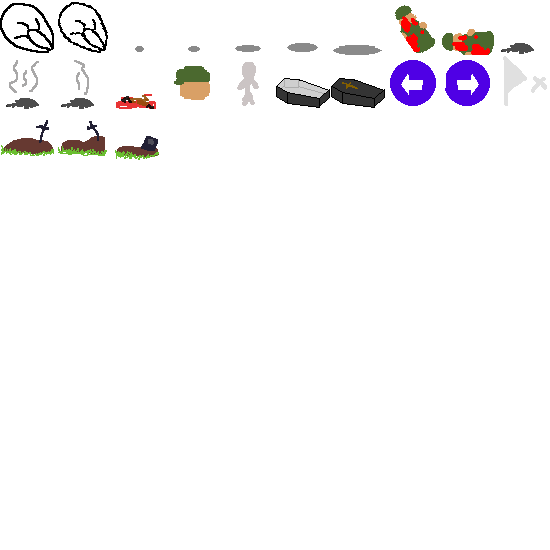
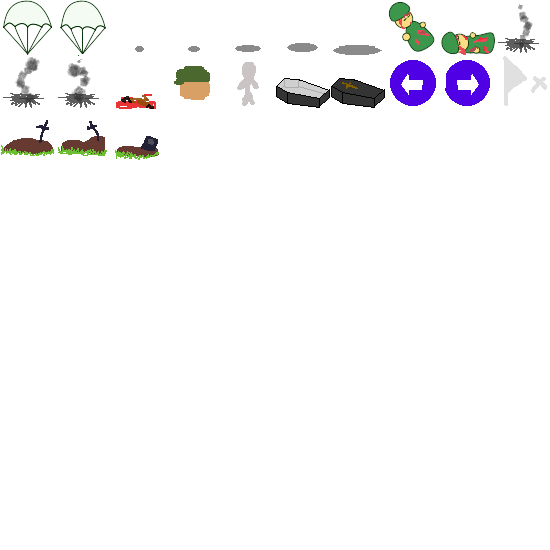
ftr(assets): add explosions

Changed region(s): [[0.0, 0.0, 0.2164, 0.2164], [0.7109, 0.0, 0.9891, 0.1236]]

diff --git a/minesweeper/src/game/minesweeper/Minesweeper.js b/minesweeper/src/game/minesweeper/Minesweeper.js
@@ -325,15 +325,14 @@ export default class Minesweeper {
 
         const cellPosition = me._field.toPosition(cellIndex);
 
-        if (type == Enums.Death.Mine)
-            me._graphics.createSmoke(cellPosition)
-
         const position = soldier.toPoint();
         const corpse = me._corpsePool.getNext(position, Enums.Corpse.Body);
         me._corpses.push(corpse);
 
-        if (type == Enums.Death.Mine)
+        if (type == Enums.Death.Mine)  {
             me._graphics.createExplosion(cellPosition);
+            me._graphics.createSmoke(cellPosition);
+        }
 
         const upY = position.y - Consts.Explode.BodyHeight;
         const downY = position.y
@@ -351,7 +350,7 @@ export default class Minesweeper {
                     ease: 'Sine.easeIn',
                     onComplete: () => { 
                         corpse.idle();
-                        me._graphics.createBloodSpot(cellPosition, corpse.getDepth())
+                        // me._graphics.createBloodSpot(cellPosition, corpse.getDepth())
                      }
                 }
             ],

diff --git a/minesweeper/src/game/utils/Animation.js b/minesweeper/src/game/utils/Animation.js
@@ -15,21 +15,21 @@ export default class Animation {
 
         scene.anims.create({
             key: 'mine_explosion',
-            frames: Animation.getFrames(scene, 'explosions', [0, 1, 2, 3, 2, 3, 2, 3, 4, 5]),
-            frameRate: 16,
+            frames: Animation.getFrames(scene, 'explosions', [0, 1, 2, 3, 4, 5, 6, 7, 8, 9, 10, 11, 13]),
+            frameRate: 24,
         });
 
         scene.anims.create({
             key: 'mine_smoke',
-            frames: Animation.getFrames(scene, 'items', [ 10, 11 ]),
+            frames: Animation.getFrames(scene, 'items', [ 9, 10, 11 ]),
             frameRate: 1,
             repeat: -1
         });
 
         scene.anims.create({
             key: 'soldier_movement',
-            frames: Animation.getFrames(scene, 'soldiers', [ 1, 2, 3, 2 ]),
-            frameRate: 8,
+            frames: Animation.getFrames(scene, 'soldiers', [ 1, 2, 3, 4, 5, 4, 3, 2 ]),
+            frameRate: 16,
             repeat: -1
         });
 

diff --git a/minesweeper/src/game/Graphics.js b/minesweeper/src/game/Graphics.js
@@ -35,8 +35,11 @@ export default class Graphics {
         const me = this;
 
         /** @type {Phaser.GameObjects.Sprite} */
-        const smoke = me._pool.create(pos.x, pos.y, 'items');
+        const smoke = me._pool.create(pos.x, pos.y, 'items')
+            .setDepth(Consts.Depth.Ground);
         smoke.play('mine_smoke');
+
+        return smoke;
     }
 
     createBloodSpot(pos, corpseDepth) {
@@ -50,7 +53,7 @@ export default class Graphics {
     createShot(pos) {
         const me = this;
 
-        return me._pool.create(pos.x, pos.y, 'explosions', 6);
+        return me._pool.create(pos.x, pos.y, 'explosions', 12);
     }
 
     createCoffin(pos) {

diff --git a/minesweeper/src/game/minesweeper/Field.js b/minesweeper/src/game/minesweeper/Field.js
@@ -220,10 +220,11 @@ export default class Field {
         let expectedDist = matrix[start.i][start.j].dist - 1;
         do {
 
-            const nextCell = Utils
+            const nextCells = Utils
                 .getNeighbours(matrix, currentPathCell.i, currentPathCell.j)
-                .filter(n => matrix[n.i][n.j].dist == expectedDist)
-                [0];
+                .filter(n => matrix[n.i][n.j].dist == expectedDist);
+
+            const nextCell = Utils.getRandomEl(nextCells);
 
             const nextCellIndex = Utils.fromMatrix(matrix, nextCell.i, nextCell.j);
             cells.push(me.toPosition(nextCellIndex));

diff --git a/minesweeper/src/game/Config.js b/minesweeper/src/game/Config.js
@@ -8,7 +8,7 @@ export default class Config {
         Random: false,
         Level: true,
         Restart: true,
-        Mines: false,
+        Mines: true,
         TweenSpeed: false,
         Timer: false,
     };
@@ -42,7 +42,7 @@ export default class Config {
             TimerDeathProbability: 25,
             ReserveStartCount: 5,
             StartInCity: false,
-            CitizenCount: 1,
+            CitizenCount: 20,
             MinCitizenSpeed: 50,
             MaxCitizenSpeed: 100,
         }

diff --git a/minesweeper/src/game/minesweeper/Corpse.js b/minesweeper/src/game/minesweeper/Corpse.js
@@ -29,7 +29,8 @@ export default class Corpse {
         me._sprite = pool.create(0, 0, 'items', startFrame);
         me._shadow = pool.create(0, Consts.Shadow.Offset, 'items', Consts.Shadow.Big);
 
-        me._container = scene.add.container(pos.x, pos.y, [ me._shadow, me._sprite ]);
+        me._container = scene.add.container(pos.x, pos.y, [ me._shadow, me._sprite ])
+            .setDepth(Consts.Depth.Corpse);
     }
 
     toGameObject() {

diff --git a/minesweeper/src/game/minesweeper/Soldier.js b/minesweeper/src/game/minesweeper/Soldier.js
@@ -33,7 +33,7 @@ export default class Soldier {
 
         me._scene = scene;
 
-        me._parachute = scene.add.sprite(-Consts.UnitSmall, -Consts.UnitSmall, 'items', 0)
+        me._parachute = scene.add.sprite(-5, -1.5 * Consts.UnitSmall, 'items', 0)
             .setVisible(false);
 
         me._shadow = scene.add.sprite(0, Consts.Shadow.Offset, 'items', Consts.Shadow.Middle);

diff --git a/minesweeper/src/game/Core.js b/minesweeper/src/game/Core.js
@@ -43,9 +43,11 @@ export default class Core {
     constructor(scene) {
         const me = this;
 
+        scene.cameras.main.setRoundPixels(true);
+
         me._scene = scene;
         me._audio = new Audio(scene);
-        
+
         me._status = new Status(Config.StartLevelIndex); // TODO
         me._reserve = new Reserve(
             scene, 

diff --git a/minesweeper/src/game/Consts.js b/minesweeper/src/game/Consts.js
@@ -12,6 +12,8 @@ export default class Consts {
     static Depth = {
         Background: -1000,
         FieldBackground: -500,
+        Ground: 100,
+        Corpse: 250,
         CitizenBottom: 500,
         Field: 50000,
         UI: 65000,
